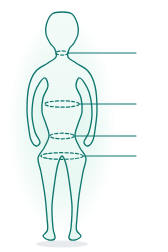
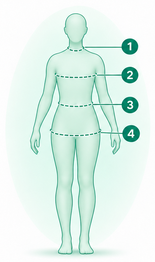
Use the approved body-measurement figure.
The Profile card now shows Ava's illustration, with transparent tap targets on the numbered circles and a navy ring when one is selected.

diff --git a/fitnessgurusg-mobile/src/components/BodyMeasurementGuide.tsx b/fitnessgurusg-mobile/src/components/BodyMeasurementGuide.tsx
@@ -21,6 +21,7 @@ import {
     Alert,
     Image,
     LayoutChangeEvent,
+    Pressable,
 } from 'react-native';
 import { Ionicons } from '@expo/vector-icons';
 import { colors, spacing, radius, typography, shadows } from '../theme/theme';
@@ -108,19 +109,17 @@ const MALE_AREAS: AreaConfig[] = [
 ];
 
 /**
- * measurement-figure.png viewBox is 168×252. Rings and leader lines are
- * drawn in the asset. Badge centres use the same coordinates so they stay
- * on the line ends when the image scales.
+ * measurement-figure.png is 465×786 (@3x of the approved crop).
+ * Circles are baked into the image. cx/cy/r are pixels in that crop,
+ * so the transparent hit areas stay on the numbers at any width.
  */
-const FIGURE_W = 168;
-const FIGURE_H = 252;
-const BADGE_CX = 150;
-const BADGE_R = 11;
-const RING_Y: Record<MeasurementArea, number> = {
-    neck: 53,
-    chest: 104,
-    waist: 136,
-    hips: 156,
+const FIGURE_W = 465;
+const FIGURE_H = 786;
+const MARKERS: Record<MeasurementArea, { cx: number; cy: number; r: number }> = {
+    neck:  { cx: 389,   cy: 139,   r: 24.5 },
+    chest: { cx: 389.5, cy: 224.5, r: 25 },
+    waist: { cx: 389.5, cy: 314.5, r: 25 },
+    hips:  { cx: 393,   cy: 400.5, r: 25.5 },
 };
 
 function MeasurementFigure({
@@ -148,34 +147,45 @@ function MeasurementFigure({
                 accessible={false}
             />
             {box.w > 0 && areas.map((area, index) => {
+                const marker = MARKERS[area.key];
                 const active = focusedArea === area.key;
-                const diameter = (BADGE_R * 2 * box.w) / FIGURE_W;
-                const left = ((BADGE_CX - BADGE_R) * box.w) / FIGURE_W;
-                const top = ((RING_Y[area.key] - BADGE_R) * box.h) / FIGURE_H;
+                const size = (marker.r * 2 * box.w) / FIGURE_W;
+                const left = ((marker.cx - marker.r) * box.w) / FIGURE_W;
+                const top = ((marker.cy - marker.r) * box.h) / FIGURE_H;
+                const ringPad = (3 * box.w) / FIGURE_W;
+                const ringSize = size + ringPad * 2;
                 return (
-                    <TouchableOpacity
-                        key={area.key}
-                        style={[
-                            fig.badge,
-                            {
-                                width: diameter,
-                                height: diameter,
-                                borderRadius: diameter / 2,
+                    <React.Fragment key={area.key}>
+                        {active && (
+                            <View
+                                pointerEvents="none"
+                                style={[
+                                    fig.ring,
+                                    {
+                                        left: left - ringPad,
+                                        top: top - ringPad,
+                                        width: ringSize,
+                                        height: ringSize,
+                                        borderRadius: ringSize / 2,
+                                    },
+                                ]}
+                            />
+                        )}
+                        <Pressable
+                            style={{
+                                position: 'absolute',
                                 left,
                                 top,
-                            },
-                            active && fig.badgeActive,
-                        ]}
-                        onPress={() => onSelect(area.key)}
-                        hitSlop={{ top: 8, bottom: 8, left: 8, right: 8 }}
-                        accessibilityRole="button"
-                        accessibilityLabel={`${area.label}, marker ${index + 1}`}
-                        accessibilityState={{ selected: active }}
-                    >
-                        <Text style={[fig.badgeText, { fontSize: Math.max(10, diameter * 0.48) }]}>
-                            {index + 1}
-                        </Text>
-                    </TouchableOpacity>
+                                width: size,
+                                height: size,
+                                borderRadius: size / 2,
+                            }}
+                            onPress={() => onSelect(area.key)}
+                            accessibilityRole="button"
+                            accessibilityLabel={`${area.label}, marker ${index + 1}`}
+                            accessibilityState={{ selected: active }}
+                        />
+                    </React.Fragment>
                 );
             })}
         </View>
@@ -184,19 +194,15 @@ function MeasurementFigure({
 
 const fig = StyleSheet.create({
     wrap: {
-        width: '44%',
-        maxWidth: 180,
+        width: '40%',
         aspectRatio: FIGURE_W / FIGURE_H,
     },
     image: { width: '100%', height: '100%' },
-    badge: {
+    ring: {
         position: 'absolute',
-        backgroundColor: colors.accent,
-        alignItems: 'center',
-        justifyContent: 'center',
+        borderWidth: 2,
+        borderColor: colors.primary,
     },
-    badgeActive: { backgroundColor: colors.primary },
-    badgeText: { color: colors.textOnPrimary, fontWeight: '700' },
 });
 
 // ─── Component ────────────────────────────────────────────────────────────────
@@ -414,7 +420,7 @@ const MARKER_DEFAULT  = '#C5CDD5';
 const MARKER_ACTIVE   = colors.accent;
 
 const s = StyleSheet.create({
-    mgrid: { flexDirection: 'row', gap: spacing.md, alignItems: 'center' },
+    mgrid: { flexDirection: 'row', gap: spacing.base, alignItems: 'center' },
     mTiles: { flex: 1, flexDirection: 'row', flexWrap: 'wrap', gap: spacing.sm },
     mTile: {
         width: '47%',
@@ -433,7 +439,7 @@ const s = StyleSheet.create({
         backgroundColor: colors.accent, alignItems: 'center', justifyContent: 'center',
     },
     mNumText: { color: colors.textOnPrimary, fontSize: 9, fontWeight: '700' },
-    mLabel: { ...typography.caption, color: colors.textSecondary },
+    mLabel: { fontSize: 14, fontWeight: '700', color: colors.textPrimary },
     mValue: { ...typography.label, color: colors.accent },
     mUnit: { fontSize: 11, fontWeight: '500', color: colors.textSecondary },
     mUnset: { ...typography.caption, color: colors.textTertiary },

diff --git a/CHANGELOG.md b/CHANGELOG.md
@@ -18,7 +18,7 @@ The format follows [Keep a Changelog](https://keepachangelog.com/en/1.1.0/). Hea
 - [Pull request #7](https://github.com/chavacad0/fitnessgurusgapp-grok/pull/7) — Docs only. Inside the Motivation & Rewards future plan, `PROJECT_STATUS.md` adds Holiday mode (pause): the client sets dates, the streak freezes, reminders pause, and the coach sees a calm holiday badge. Whether paid plan dates extend is an open decision. Nothing in the app is built. The audit log is unchanged.
 - [Pull request #9](https://github.com/chavacad0/fitnessgurusgapp-grok/pull/9) — Client Home and Profile follow the approved mockups, using only information the app already stores. Home has a navy greeting, a shorter reminder card, and larger 1–10 buttons in two rows. Profile shows a navy header and a body-measurement figure with the saved neck, bust, waist, and hips numbers, or “Not set” when a number is missing. Streaks, badges, holiday mode, and profile tabs are not shown. Login, payments, photos, and coach screens are unchanged.
 - [Pull request #11](https://github.com/chavacad0/fitnessgurusgapp-grok/pull/11) — On Home, the Energy and Appetite rating cards stay closed until you tap that tile in Today so far. Tap again to close it. The number on the tile still updates, and it is still saved as 1 to 10. Steps, reminders, and Submit are unchanged.
-- [Pull request #12](https://github.com/chavacad0/fitnessgurusgapp-grok/pull/12) — Body Measurements on Profile shows a smooth figure instead of the block drawing. The tape marks sit on the neck, chest, waist, and hips, and the chest tile is labelled Chest. Saved numbers, Add, Edit, and the tap-for-instructions notes work the same way.
+- [Pull request #12](https://github.com/chavacad0/fitnessgurusgapp-grok/pull/12) — Body Measurements on Profile uses the approved figure, with tape marks on the neck, chest, waist, and hips. The chest tile is labelled Chest. Saved numbers, Add, Edit, and the tap-for-instructions notes work the same way.
 
 ## [2026-11-12]
 
